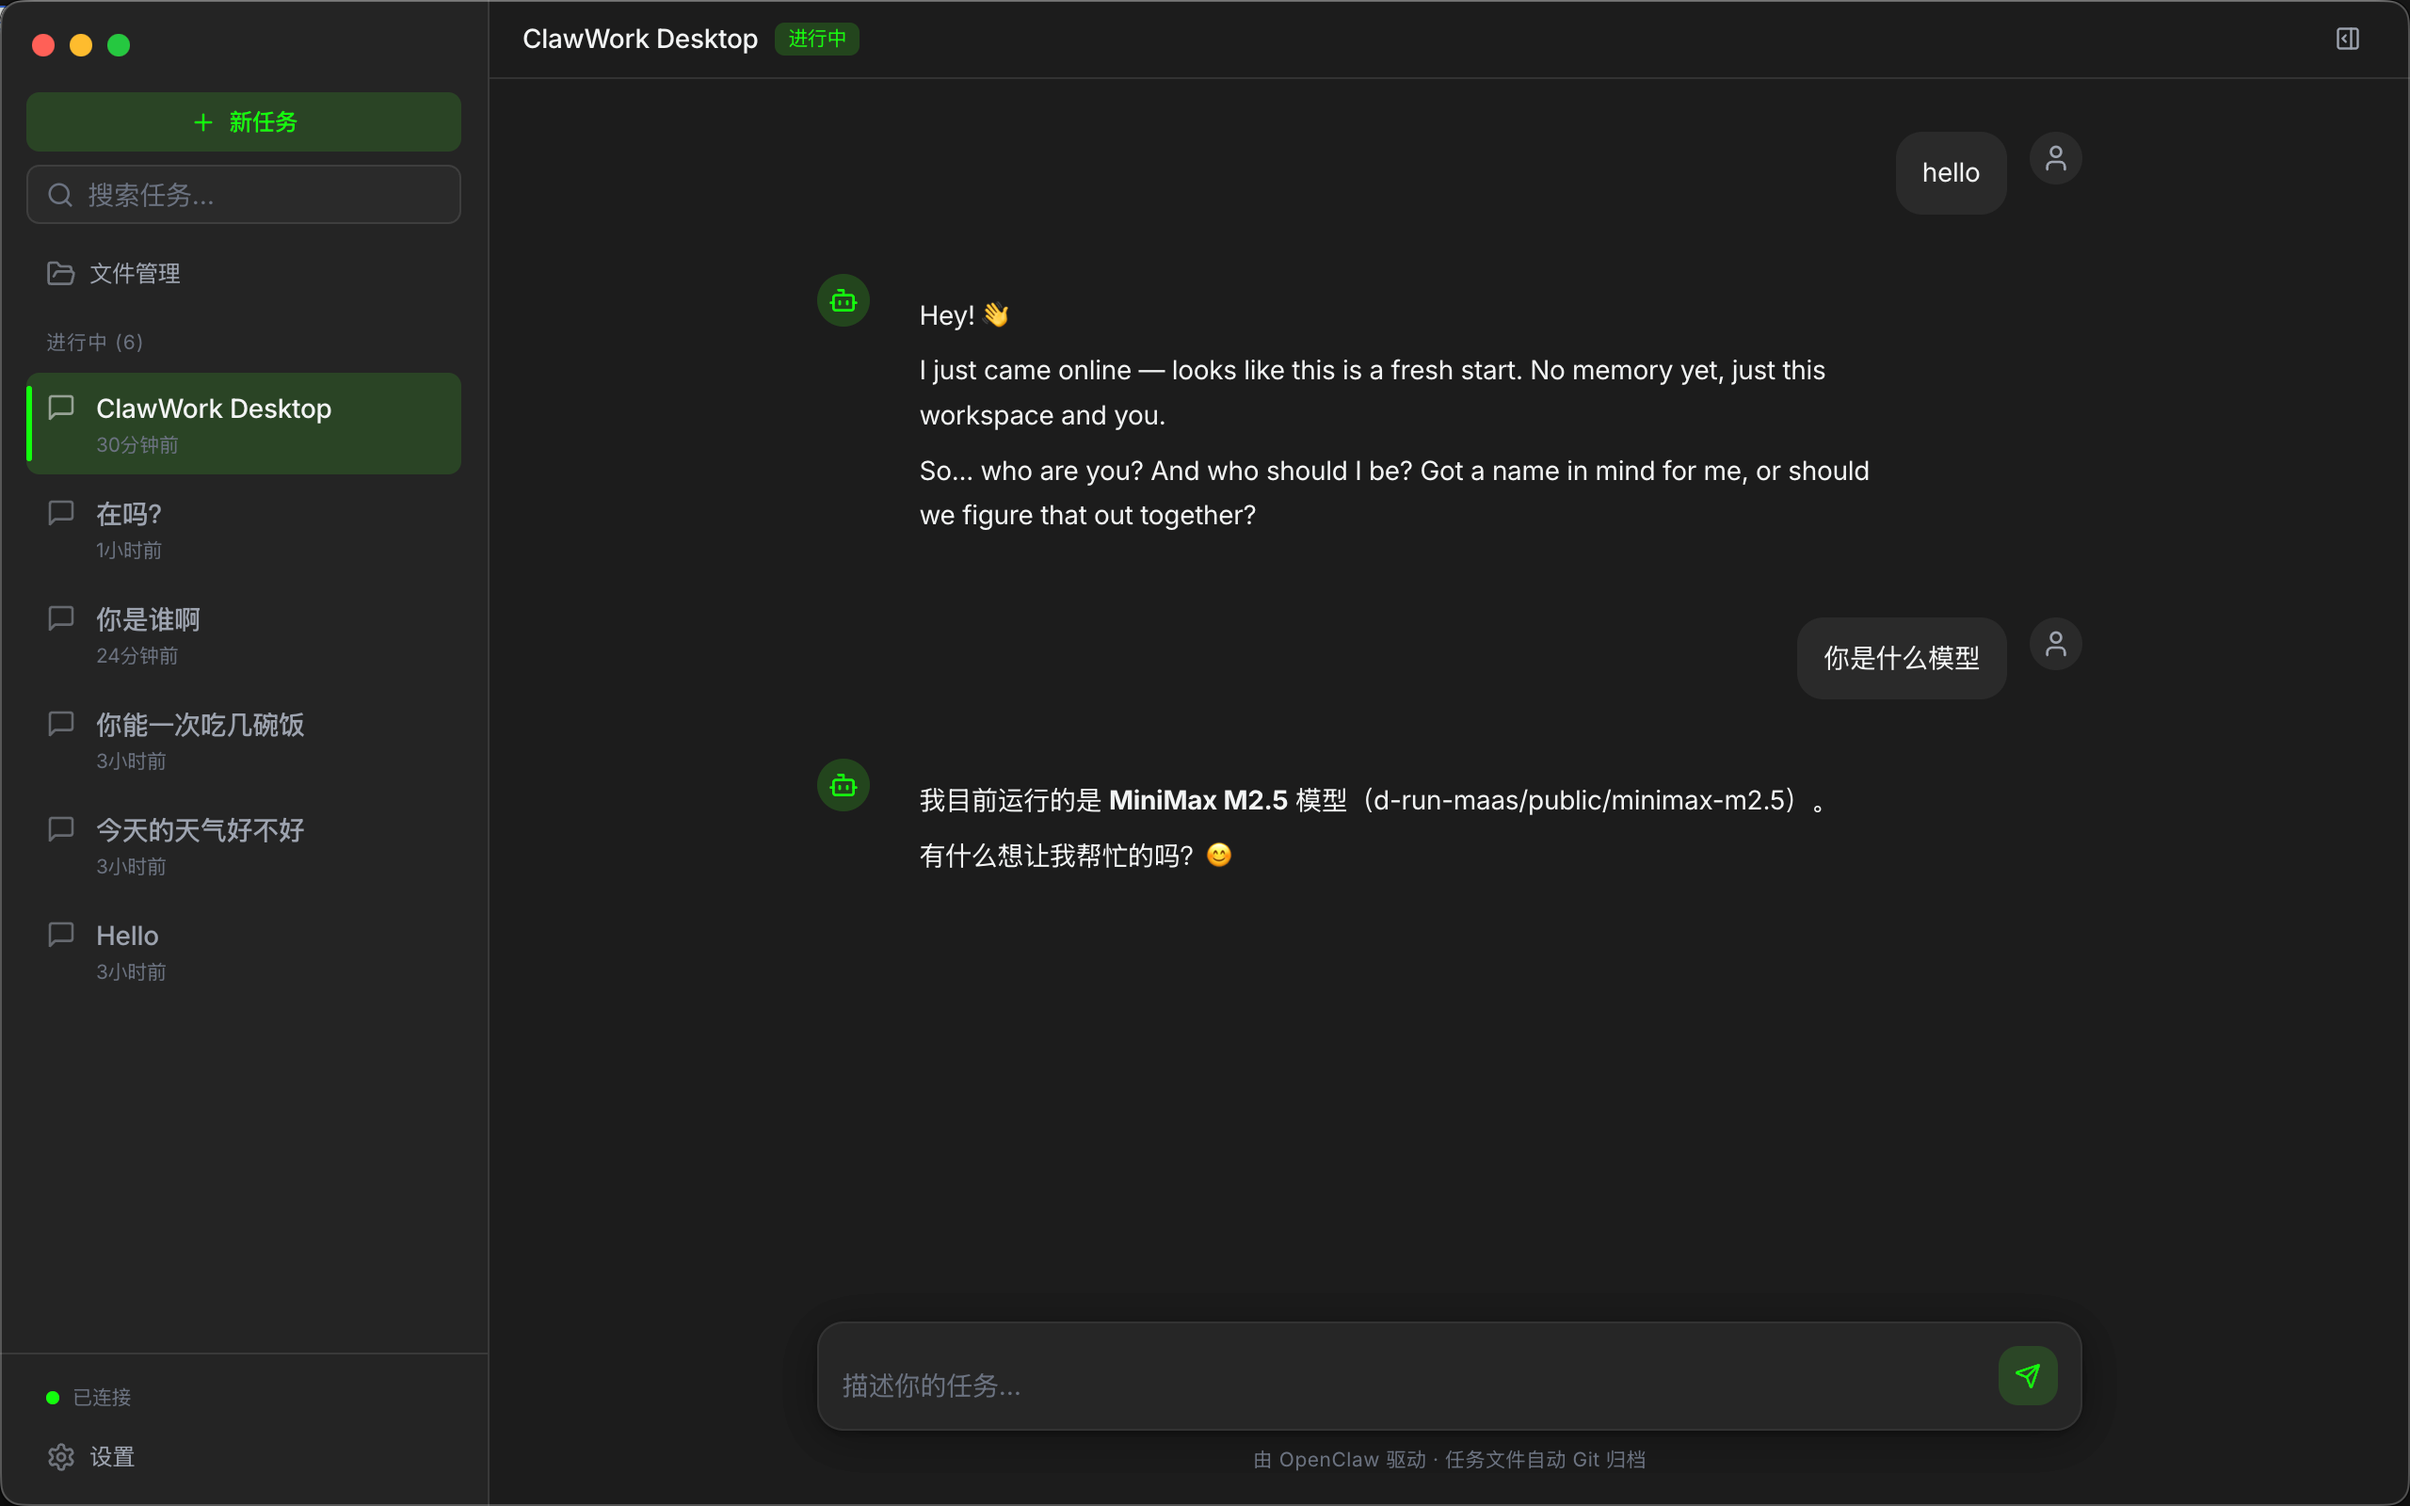
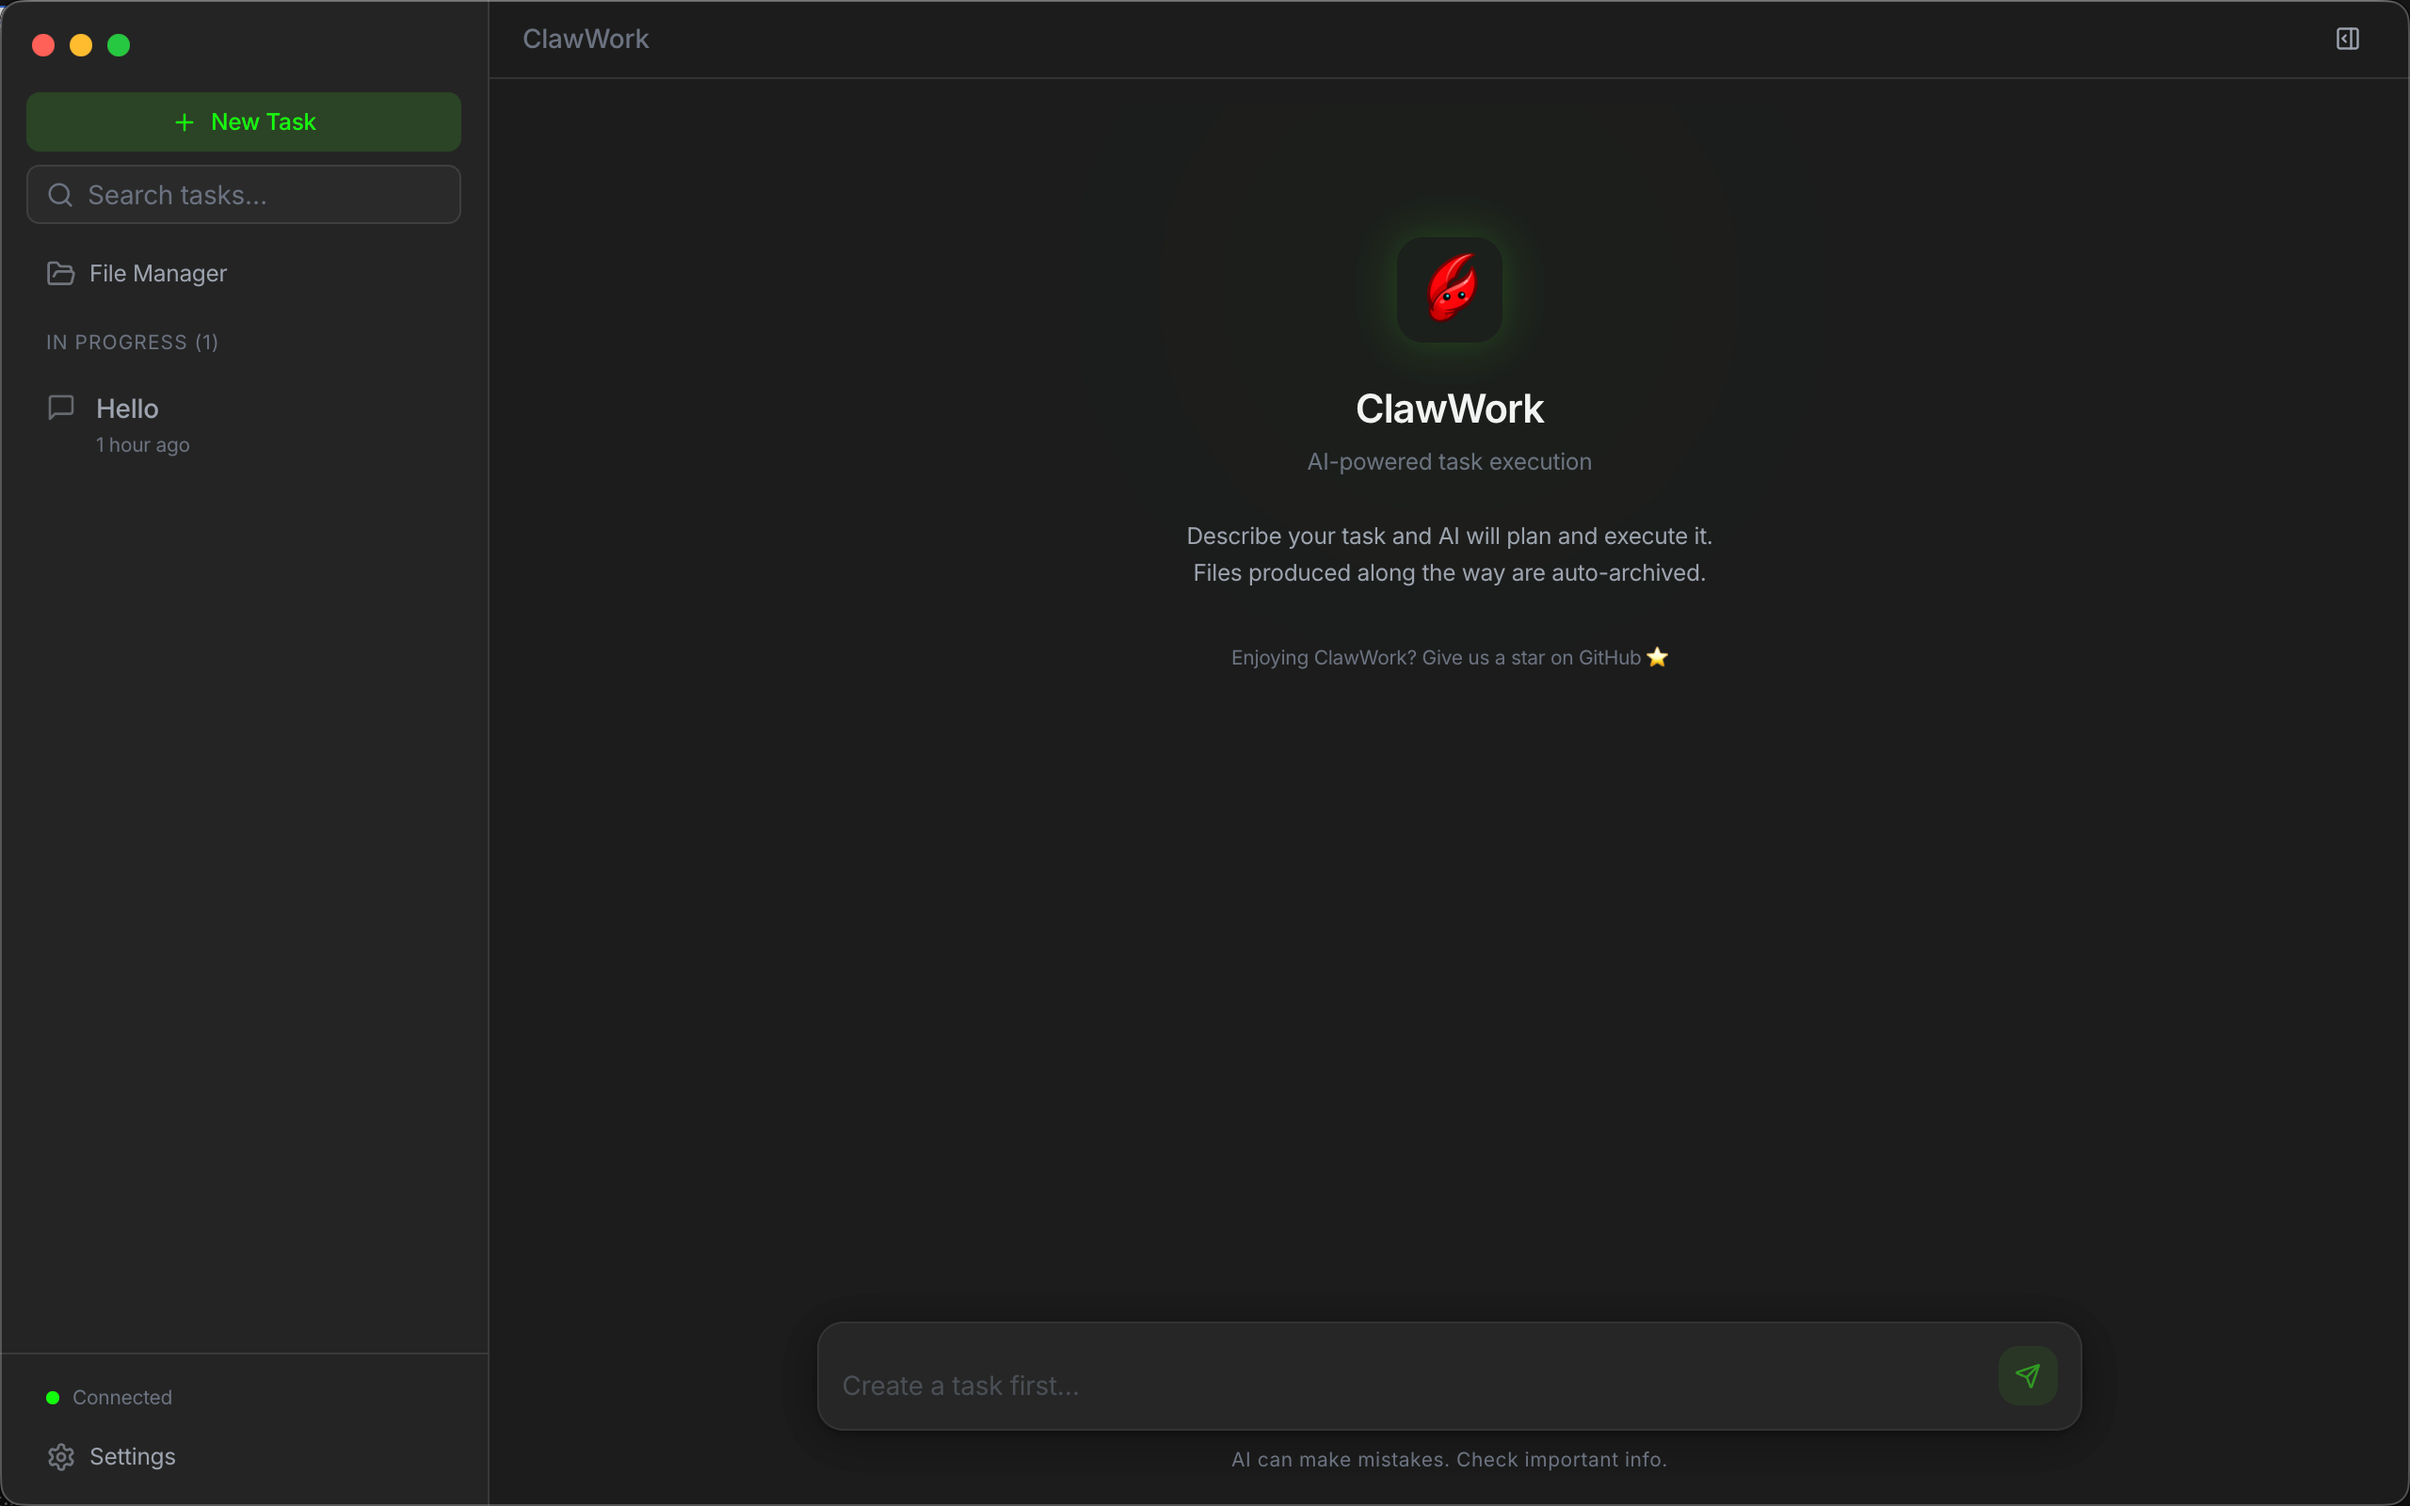
feat: add GitHub Star and Issue entry points in Settings and WelcomeScreen (#15)

diff --git a/packages/desktop/src/renderer/layouts/Settings/index.tsx b/packages/desktop/src/renderer/layouts/Settings/index.tsx
@@ -1,6 +1,6 @@
 import { useState, useEffect, useCallback } from 'react'
 import { motion } from 'framer-motion'
-import { X, Moon, Sun, Globe } from 'lucide-react'
+import { X, Moon, Sun, Globe, Star, Bug } from 'lucide-react'
 import { useTranslation } from 'react-i18next'
 import { toast } from 'sonner'
 import { cn } from '@/lib/utils'
@@ -177,11 +177,42 @@ export default function Settings({ onClose }: SettingsProps) {
           </div>
         </section>
 
-        {/* Version */}
+        {/* About */}
         <section>
           <p className={sectionLabel}>{t('settings.about')}</p>
-          <div className={cardClass}>
-            <p className="text-sm text-[var(--text-primary)]">ClawWork v0.1.0</p>
+          <div className={cn(cardClass, 'space-y-4')}>
+            <div className="flex items-center justify-between">
+              <span className="text-sm text-[var(--text-secondary)]">{t('settings.version')}</span>
+              <span className="text-sm text-[var(--text-primary)] font-mono">v0.1.0</span>
+            </div>
+            <div className="flex flex-col gap-2">
+              <a
+                href="https://github.com/clawwork-ai/clawwork"
+                target="_blank"
+                rel="noreferrer"
+                className={cn(
+                  'flex items-center justify-center gap-2 h-9 px-4 rounded-lg text-sm font-medium transition-colors',
+                  'bg-[var(--accent)] text-[var(--bg-primary)]',
+                  'hover:bg-[var(--accent-hover)] active:scale-[0.98]',
+                )}
+              >
+                <Star size={14} />
+                {t('settings.githubStar')}
+              </a>
+              <a
+                href="https://github.com/clawwork-ai/clawwork/issues/new"
+                target="_blank"
+                rel="noreferrer"
+                className={cn(
+                  'flex items-center justify-center gap-2 h-9 px-4 rounded-lg text-sm font-medium transition-colors',
+                  'bg-[var(--bg-tertiary)] text-[var(--text-secondary)] border border-[var(--border)]',
+                  'hover:bg-[var(--bg-hover)] hover:text-[var(--text-primary)] active:scale-[0.98]',
+                )}
+              >
+                <Bug size={14} />
+                {t('settings.submitIssue')}
+              </a>
+            </div>
           </div>
         </section>
       </div>

diff --git a/packages/desktop/src/renderer/layouts/MainArea/index.tsx b/packages/desktop/src/renderer/layouts/MainArea/index.tsx
@@ -41,6 +41,14 @@ function WelcomeScreen() {
         <br />
         {t('mainArea.welcomeDesc2')}
       </p>
+      <a
+        href="https://github.com/clawwork-ai/clawwork"
+        target="_blank"
+        rel="noreferrer"
+        className="mt-8 text-xs text-[var(--text-muted)] hover:text-[var(--accent)] transition-colors"
+      >
+        {t('mainArea.starOnGithub')} ⭐
+      </a>
     </motion.div>
   )
 }
